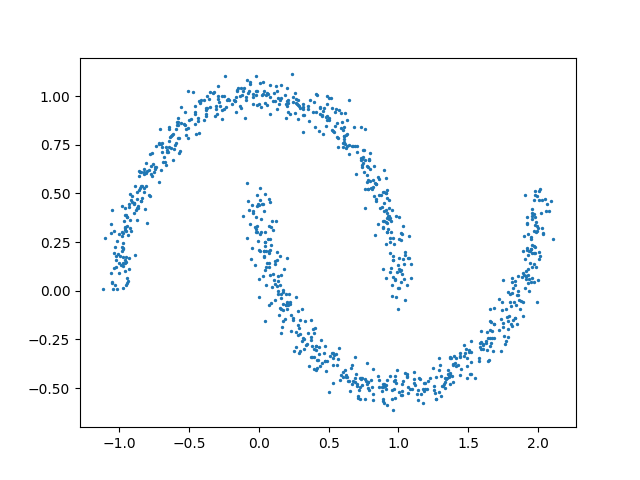
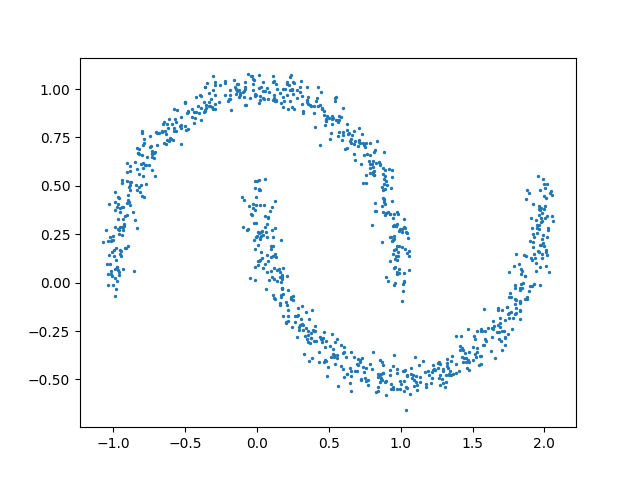
Heun and trajectory

diff --git a/README.md b/README.md
@@ -1,4 +1,6 @@
 # fm-scratch
 - 2026-09-02: 2D flow matching scratch 구현 및 NFE 실험
-  loss가 안 떨어지는 이유 = conditional velocity의 분산. 
+    loss가 안 떨어지는 이유 = conditional velocity의 분산. 
+    n_step=1 일때 data 무게중심으로 모이는이유
+    Euler 대신 Heun Solver 사용 했을때 step 이 작을때 안좋고 step 늘어날수록 좋음
   
